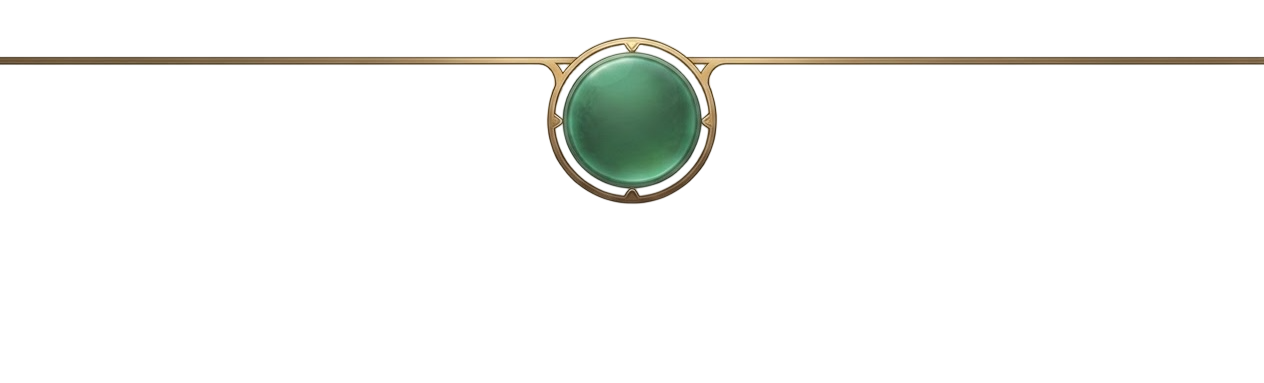
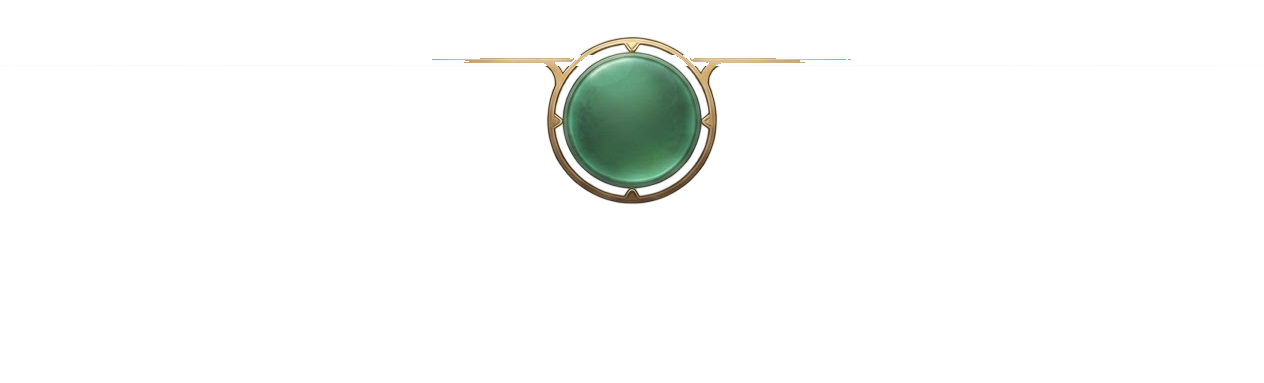
fix(home): flush paper onto the green shell top
Main still showed a mid band: the gold-frame tan bar on the shell top,
and with injected sab the sheet stopped 34px above the shell. Crop the
shell bevel so the box top is the flat green field, clear that tan bar,
and pad the sheet to the 76px shell. Green-line tip stays at 493.5.

Changed region(s): [[0.5245, 0.1436, 1.0, 0.1723], [0.0, 0.1436, 0.4628, 0.1723]]

diff --git a/components/CharacterDetailView.tsx b/components/CharacterDetailView.tsx
@@ -70,12 +70,13 @@ const CharacterDetailView: React.FC<CharacterDetailProps> = ({ char, onBack }) =
   }, []);
 
   // 場景框＝主頁 peek 同口徑 H（禁裁 host）；去羽化（無 mask／gradient）；
-  // stageH 跟 peek 聯動（＝H）；info 頂＝綠線；height＝navTop−綠線；禁 absolute 脫流
+  // stageH 跟 peek 聯動（＝H）；info 頂＝綠線；height＝殼頂−綠線；禁 absolute 脫流
   useLayoutEffect(() => {
     const root = rootRef.current;
     if (!root || typeof ResizeObserver === 'undefined') { setFit(null); setLayoutBox(null); return; }
     const sync = () => {
-      const nav = document.querySelector<HTMLElement>('.home-bar-bottom');
+      // 綠殼頂（76 貼底）。nav 盒在 sab>0 時更高，盒頂會離開綠殼，不能拿來當紙底。
+      const chrome = document.querySelector<HTMLElement>('.home-chrome-shell--bottom');
       const rootRect = root.getBoundingClientRect();
       const canvas = (root.closest('#root') as HTMLElement | null) ?? document.getElementById('root');
       const canvasRect = canvas?.getBoundingClientRect();
@@ -83,8 +84,8 @@ const CharacterDetailView: React.FC<CharacterDetailProps> = ({ char, onBack }) =
       const origin = canvasRect?.top ?? 0;
       // rect 是 letterbox 縮放後的視口 px；493.5／CSS 高是設計 px。先換算再鎖綠線。
       const codexTop = viewportYToDesign(rootRect.top, origin, scale);
-      const navTop = nav
-        ? viewportYToDesign(nav.getBoundingClientRect().top, origin, scale)
+      const navTop = chrome
+        ? viewportYToDesign(chrome.getBoundingClientRect().top, origin, scale)
         : codexTop + root.offsetHeight;
       const band = codexDetailBand(codexTop, navTop);
       const { stageH, marginTop, height } = band;
@@ -106,8 +107,8 @@ const CharacterDetailView: React.FC<CharacterDetailProps> = ({ char, onBack }) =
     };
     const ro = new ResizeObserver(sync);
     ro.observe(root);
-    const navEl = document.querySelector<HTMLElement>('.home-bar-bottom');
-    if (navEl) ro.observe(navEl);
+    const chromeEl = document.querySelector<HTMLElement>('.home-chrome-shell--bottom');
+    if (chromeEl) ro.observe(chromeEl);
     sync();
     return () => ro.disconnect();
   }, [scene]);

diff --git a/components/MenuScreen.tsx b/components/MenuScreen.tsx
@@ -115,6 +115,8 @@ const NAV_GOLD_FRAME_SRC = {
   webp: `${CHROME_BASE}/nav-gold-frame.webp`,
   png: `${CHROME_BASE}/nav-gold-frame.png`,
 };
+/* sheet-nav-flush：金框資產 y55–65 的全寬 tan 橫條已挖透明（亮金環與圓鈕保留）。
+   該條壓在綠殼頂上，眼見＝紙底與綠殼之間的山水帶。 */
 /** nav-gold-ring-r1：asset 1264 × (orbOD 88.9 / assetOD 167) ≈ 673；相對 r5 754＝0.893×；金線頂緣貼殼頂 */
 const NAV_GOLD_FRAME_W = 673;
 
@@ -497,7 +499,8 @@ const MenuScreen: React.FC<MenuScreenProps> = ({ levels, onSelect, viewingCharac
         onMouseUp={handleMouseUp}
         style={{
           paddingTop: isSummoning ? 0 : 'var(--hud-vnext-zone-h)', /* zone-lock-r1：內容區 top＝HUD 鎖區高 */
-          paddingBottom: isSummoning ? 0 : 'calc(76px + var(--sab, 0px))',
+          /* 紙底貼綠殼頂（76）。--sab 只加在 nav 盒內；注入 sab 時也不把抽屜／描述紙抬離殼頂。 */
+          paddingBottom: isSummoning ? 0 : '76px',
           touchAction: 'pan-y', // 允許系統接管垂直滾動
           overflow: 'hidden'
         }}
@@ -517,7 +520,7 @@ const MenuScreen: React.FC<MenuScreenProps> = ({ levels, onSelect, viewingCharac
         className={`home-bar home-bar-bottom home-chrome-shell-host absolute bottom-0 left-0 right-0 z-50 transition-all duration-500 ${isSummoning ? 'opacity-0 translate-y-full pointer-events-none' : 'opacity-100 translate-y-0 pointer-events-auto'}`}
         data-active-index={activeNavIndex}
         style={{
-            /* 殼＋五鍵錨 76 貼底。Browser --sab＝env()；standalone 外黑邊已吃 sab，畫布內為 0。 */
+            /* 殼＋五鍵錨 76 貼底。Browser --sab＝env()；standalone 外黑邊已吃 sab，畫布內為 0。注入 sab 只墊 nav 盒。 */
             paddingBottom: 'var(--sab, 0px)',
             height: 'calc(76px + var(--sab, 0px))'
         }}

diff --git a/src/styles/home-chrome.css b/src/styles/home-chrome.css
@@ -180,7 +180,8 @@ html.is-standalone .home-chrome-shell-segs {
   }
 }
 
-/* 底欄圖殼：定高 76＠390；bottom:0 貼底；禁隨 sab 拉高殼圖 */
+/* 底欄圖殼：定高 76＠390；bottom:0 貼底；禁隨 sab 拉高殼圖。
+   圖頂 12/108 是黑線＋淺灰高光。裁掉該段，盒頂就是平綠場，宣紙直接接綠。 */
 .home-chrome-shell--bottom {
   left: 0;
   right: 0;
@@ -188,8 +189,15 @@ html.is-standalone .home-chrome-shell-segs {
   top: auto;
   width: 100%;
   height: 76px;
+  overflow: hidden;
 }
 .home-chrome-shell--bottom img {
+  position: absolute;
+  left: 0;
+  width: 100%;
+  /* 108 列裡丟掉頂 12 列；其餘拉滿 76，底緣仍貼盒底 */
+  height: calc(76px * 108 / 96);
+  top: calc(-12 * 76px / 96);
   object-fit: fill;
   object-position: bottom center;
 }

diff --git a/components/codexDetailLayout.test.ts b/components/codexDetailLayout.test.ts
@@ -18,11 +18,12 @@ describe('codexDetailBand：設計 px 綠線鎖', () => {
     expect(codexTop + band.stageH + band.marginTop + band.height).toBeCloseTo(navTop, 5);
   });
 
-  it('standalone contain 不把 sat／sab 加進帶高；綠線與 browser 同在 495', () => {
+  it('standalone contain 不把 sat／sab 加進帶高；綠線與 browser 同在 495，描述底貼殼頂 768', () => {
     const browser = codexDetailBand(CHROME_ZONE_H, DESIGN_H - NAV_H);
     const standalone = codexDetailBand(CHROME_ZONE_H, DESIGN_H - NAV_H);
     expect(standalone).toEqual(browser);
     expect(CHROME_ZONE_H + standalone.stageH + standalone.marginTop).toBeCloseTo(495, 5);
+    expect(standalone.height).toBeCloseTo(768 - 495, 5);
     expect(standalone.height).toBeGreaterThan(200);
   });
 
